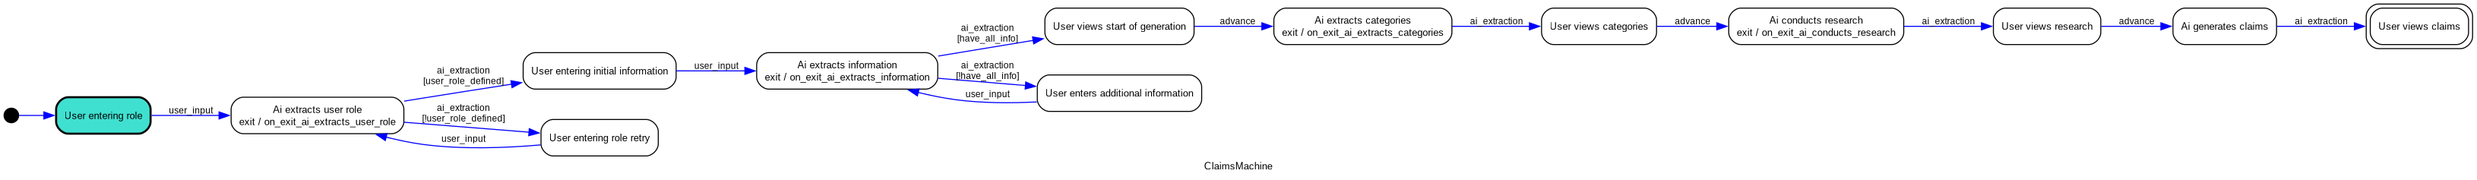
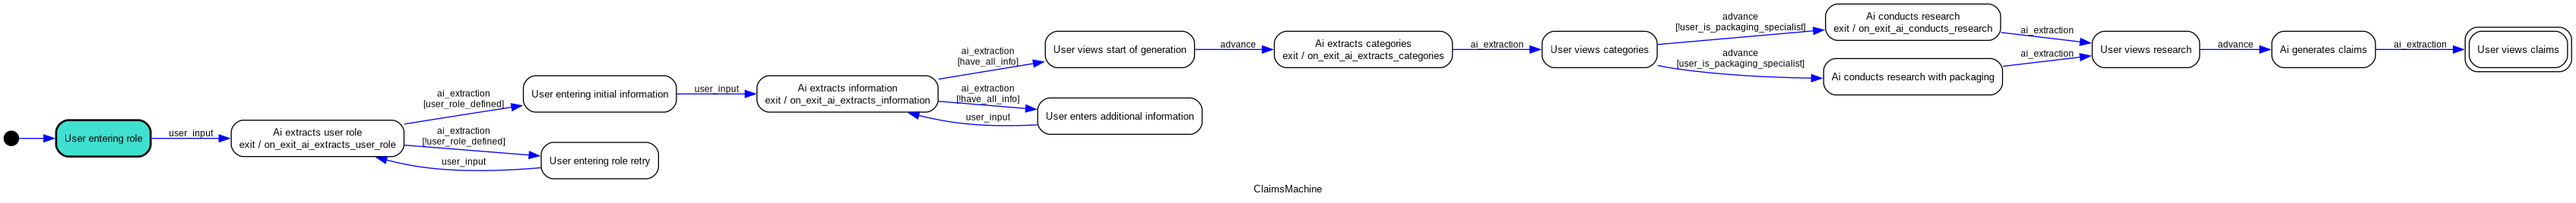
added state for when not packaging specialist

diff --git a/example_claims/prompts.py b/example_claims/prompts.py
@@ -151,7 +151,7 @@ marketed, "product_description", the target persona to be marketed to, "target_p
 further information, "further_info".
 
 You must use the information provided below to answer the following question:
-1. Would the target persona be interested in knowing about the ingredients of a product?
+Would the target persona be interested in knowing about the ingredients of a product?
 
 ---
 user role: 
@@ -170,9 +170,9 @@ further_info:
 {{further_info}}
 
 ---
-Your response should be all the answers to these questions with the given information.
-Answer the questions in the order they are given in and explain why your answer is the most
-appropriate answer for each question.
+
+Your response should be the answers to the question, using the given information.
+Explain why your answer is the most appropriate answer for that question.
     """
 )
 
@@ -187,7 +187,7 @@ marketed, "product_description", the target persona to be marketed to, "target_p
 further information, "further_info".
 
 You must use the information provided below to answer the following question:
-2. What benefits in the product would the target persona be interested in?
+What benefits in the product would the target persona be interested in?
 
 ---
 user role: 
@@ -206,9 +206,9 @@ further_info:
 {{further_info}}
 
 ---
-Your response should be all the answers to these questions with the given information.
-Answer the questions in the order they are given in and explain why your answer is the most
-appropriate answer for each question.
+
+Your response should be the answers to the question, using the given information.
+Explain why your answer is the most appropriate answer for that question.
     """
 )
 AI_CONDUCTING_RESEARCH_PROMPT_SENSORY = Template(
@@ -222,7 +222,7 @@ marketed, "product_description", the target persona to be marketed to, "target_p
 further information, "further_info".
 
 You must use the information provided below to answer the following question:
-3. What sort of sensory experience would the target persona be interested in with the product?
+What sort of sensory experience would the target persona be interested in with the product?
 
 ---
 user role: 
@@ -241,9 +241,9 @@ further_info:
 {{further_info}}
 
 ---
-Your response should be all the answers to these questions with the given information.
-Answer the questions in the order they are given in and explain why your answer is the most
-appropriate answer for each question.
+
+Your response should be the answers to the question, using the given information.
+Explain why your answer is the most appropriate answer for that question.
     """
 )
 AI_CONDUCTING_RESEARCH_PROMPT_MARKETING = Template(
@@ -257,7 +257,7 @@ marketed, "product_description", the target persona to be marketed to, "target_p
 further information, "further_info".
 
 You must use the information provided below to answer the following question:
-4. How would you market the product to the target persona?
+How would you market the product to the target persona?
 
 ---
 user role: 
@@ -276,9 +276,9 @@ further_info:
 {{further_info}}
 
 ---
-Your response should be all the answers to these questions with the given information.
-Answer the questions in the order they are given in and explain why your answer is the most
-appropriate answer for each question.
+
+Your response should be the answers to the question, using the given information.
+Explain why your answer is the most appropriate answer for that question.
     """
 )
 AI_CONDUCTING_RESEARCH_PROMPT_PACKAGING = Template(
@@ -292,9 +292,8 @@ marketed, "product_description", the target persona to be marketed to, "target_p
 further information, "further_info".
 
 You must use the information provided below to answer the following question:
-5. If the user role is not a packaging specialist, then ignore this question. If the user role is a 
-packaging specialist, then what specific recommendations do you have to package the product that 
-would appeal to the target persona?
+What specific recommendations do you have to package the product that would appeal to the
+target persona?
 
 ---
 user role: 
@@ -313,9 +312,9 @@ further_info:
 {{further_info}}
 
 ---
-Your response should be all the answers to these questions with the given information.
-Answer the questions in the order they are given in and explain why your answer is the most
-appropriate answer for each question.
+
+Your response should be the answers to the question, using the given information.
+Explain why your answer is the most appropriate answer for that question.
     """
 )
 

diff --git a/example_claims/claims.py b/example_claims/claims.py
@@ -69,6 +69,7 @@ class ClaimsMachine(GenieStateMachine):
     ai_extracts_categories = State(value=310)
     user_views_categories = State(value=320)
     ai_conducts_research = State(value=330)
+    ai_conducts_research_with_packaging = State(value=332)
     user_views_research = State(value=340)
     ai_generates_claims = State(value=350)
     user_views_claims = State(value=360, final=True)
@@ -89,12 +90,20 @@ class ClaimsMachine(GenieStateMachine):
         ai_extracts_information.to(user_enters_additional_information, unless="have_all_info") |
         ai_extracts_categories.to(user_views_categories) |
         ai_conducts_research.to(user_views_research) |
+        ai_conducts_research_with_packaging.to(user_views_research) |
         ai_generates_claims.to(user_views_claims)
     )
 
     advance = (
         user_views_start_of_generation.to(ai_extracts_categories) |
-        user_views_categories.to(ai_conducts_research) |
+        user_views_categories.to(
+            ai_conducts_research,
+            unless="user_is_packaging_specialist",
+        ) |
+        user_views_categories.to(
+            ai_conducts_research_with_packaging,
+            cond="user_is_packaging_specialist",
+        ) |
         user_views_research.to(ai_generates_claims)
     )
 
@@ -110,6 +119,12 @@ class ClaimsMachine(GenieStateMachine):
         ai_extracts_categories=p.AI_EXTRACTING_CATEGORIES_PROMPT,
         user_views_categories=p.USER_VIEWING_CATEGORIES_PROMPT,
         ai_conducts_research=dict(
+            ingredients=p.AI_CONDUCTING_RESEARCH_PROMPT_INGREDIENTS,
+            benefits=p.AI_CONDUCTING_RESEARCH_PROMPT_BENEFITS,
+            sensory=p.AI_CONDUCTING_RESEARCH_PROMPT_SENSORY,
+            marketing=p.AI_CONDUCTING_RESEARCH_PROMPT_MARKETING,
+        ),
+        ai_conducts_research_with_packaging=dict(
             ingredients=p.AI_CONDUCTING_RESEARCH_PROMPT_INGREDIENTS,
             benefits=p.AI_CONDUCTING_RESEARCH_PROMPT_BENEFITS,
             sensory=p.AI_CONDUCTING_RESEARCH_PROMPT_SENSORY,
@@ -135,6 +150,9 @@ class ClaimsMachine(GenieStateMachine):
 
         return "STOP" in event_data.args[0]
 
+    def user_is_packaging_specialist(self):
+        return self.model.user_role == "packaging specialist"
+
     # ACTIONS
     def on_exit_ai_extracts_user_role(self, event_data: EventData):
         self.model.user_role = self.model.actor_input
@@ -158,4 +176,7 @@ class ClaimsMachine(GenieStateMachine):
             self.model.further_info = self.model.actor_input
 
     def on_exit_ai_conducts_research(self, event_data: EventData):
+        self.model.step_back_research = self.model.actor_input
+
+    def on_exit_ai_conducts_research_with_packaging(self, event_data: EventData):
         self.model.step_back_research = self.model.actor_input

diff --git a/ai_state_machine/genie_state_machine.py b/ai_state_machine/genie_state_machine.py
@@ -2,7 +2,7 @@ import logging
 from typing import Optional
 
 from celery import chain, group, Task
-from celery.canvas import Signature
+from celery.canvas import Signature, chord
 from jinja2 import Template
 from loguru import logger
 from pydantic import BaseModel, Field
@@ -295,16 +295,16 @@ class GenieStateMachine(StateMachine):
             return chained
         if isinstance(template, dict):
             dict_keys = list(template.keys())  # make sure to go through keys in fixed order
-            return (
-                group(*[self._compile_task(template[k]) for k in dict_keys]) |
+            return chord(
+                group(*[self._compile_task(template[k]) for k in dict_keys]),
                 combine_group_to_dict.s(dict_keys)
             )
         raise ValueError(f"trying to compile a task for a render of type '{type(template)}'")
 
     def create_ai_task(self, template: CompositeTemplateType, event_to_send_after: str):
         fqn = get_fully_qualified_name_from_class(self.model)
-        return (
-            self._compile_task(template) |
+        return chord(
+            self._compile_task(template),
             trigger_ai_event.s(fqn, self.model.session_id, event_to_send_after)
         )
 
